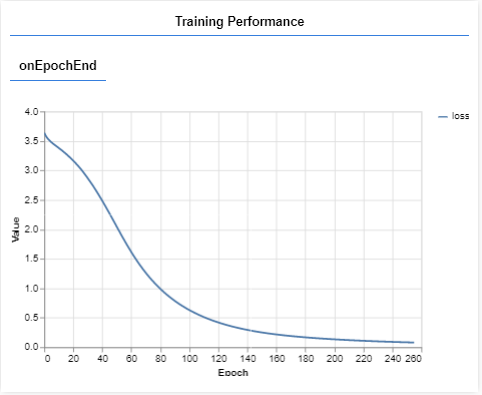
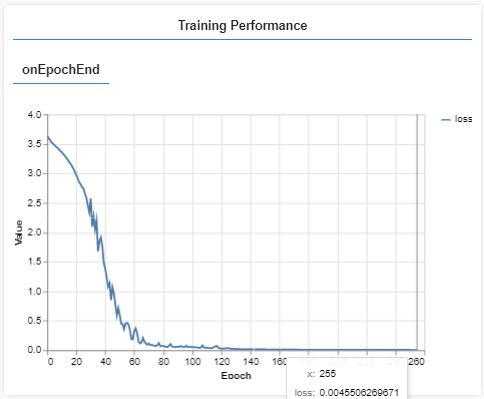
add test-platform for the model

diff --git a/index.html b/index.html
@@ -1,0 +1,22 @@
+<!doctype html>
+<html lang="en">
+  <head>
+    <title>Nachgefragt-Nachgehakt</title>
+    <!-- Required meta tags -->
+    <meta charset="utf-8">
+    <meta name="viewport" content="width=device-width, initial-scale=1, shrink-to-fit=no">
+
+    <!-- Bootstrap CSS -->
+    <link rel="stylesheet" href="https://stackpath.bootstrapcdn.com/bootstrap/4.3.1/css/bootstrap.min.css" integrity="sha384-ggOyR0iXCbMQv3Xipma34MD+dH/1fQ784/j6cY/iJTQUOhcWr7x9JvoRxT2MZw1T" crossorigin="anonymous">
+  </head>
+  <body>
+    <script src="https://cdn.jsdelivr.net/npm/ml5@0.12.2/dist/ml5.js"></script>
+    <script src="Data.js"></script>
+    <script src="model.js"></script>
+    <!-- Optional JavaScript -->
+    <!-- jQuery first, then Popper.js, then Bootstrap JS -->
+    <script src="https://code.jquery.com/jquery-3.3.1.slim.min.js" integrity="sha384-q8i/X+965DzO0rT7abK41JStQIAqVgRVzpbzo5smXKp4YfRvH+8abtTE1Pi6jizo" crossorigin="anonymous"></script>
+    <script src="https://cdnjs.cloudflare.com/ajax/libs/popper.js/1.14.7/umd/popper.min.js" integrity="sha384-UO2eT0CpHqdSJQ6hJty5KVphtPhzWj9WO1clHTMGa3JDZwrnQq4sF86dIHNDz0W1" crossorigin="anonymous"></script>
+    <script src="https://stackpath.bootstrapcdn.com/bootstrap/4.3.1/js/bootstrap.min.js" integrity="sha384-JjSmVgyd0p3pXB1rRibZUAYoIIy6OrQ6VrjIEaFf/nJGzIxFDsf4x0xIM+B07jRM" crossorigin="anonymous"></script>
+  </body>
+</html>

diff --git a/model.js b/model.js
@@ -29,7 +29,7 @@ const options = {
     inputs: inputLabels,
     outputs: ['output'],
     debug: true,
-    /*layers: [
+    layers: [
         {
           type: 'dense',
           units: 88,
@@ -37,15 +37,15 @@ const options = {
         },
         {
           type: 'dense',
-          units: 24,
-          activation: 'sigmoid'
+          units: 64,
+          activation: 'relu'
         },
         {
           type: 'dense',
-          units: 1,
+          units: 36,
           activation: 'sigmoid'
         }
-      ]*/
+      ]
   }
 
 const nn = ml5.neuralNetwork(options);
@@ -59,8 +59,8 @@ inputs.forEach(
 nn.normalizeData();
 
 const trainingOptions = {
-    epochs: 1024,
-    batchSize: 36
+    epochs: 256,
+    batchSize: 18
 }
 
 /* Saved for later
@@ -73,7 +73,7 @@ nn.load(modelInfo, modelLoadedCallback);
 
 function modelLoadedCallback() {}*/
 
-nn.train(trainingOptions, finishedTraining);
+let train = () => nn.train(trainingOptions, finishedTraining);
 
 function finishedTraining() {
     console.log('Training finished.');
